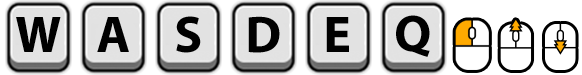
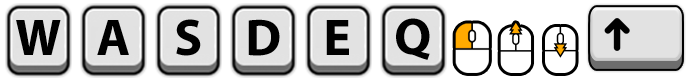
tutoriallar bitti

diff --git a/Assets/Scripts/UI/TutorialHintView.cs b/Assets/Scripts/UI/TutorialHintView.cs
@@ -22,7 +22,8 @@ public class TutorialHintView : MonoBehaviour
         Drop = 2,
         Scroll = 3,
         Arrange = 4,
-        Done = 5,
+        Crouch = 5,
+        Done = 6,
     }
 
     [SerializeField] GameObject root;
@@ -33,6 +34,7 @@ public class TutorialHintView : MonoBehaviour
     static Step _step;
     static bool _showThisSession;
     static bool _sessionDecided;
+    static bool _usedCrouchBeforeHint;
 
     TutorialHintFitter _fitter;
     LocalizedText _localized;
@@ -47,6 +49,7 @@ public class TutorialHintView : MonoBehaviour
         _step = Step.Move;
         _showThisSession = false;
         _sessionDecided = false;
+        _usedCrouchBeforeHint = false;
     }
 
     public static void ResetSession()
@@ -54,6 +57,7 @@ public class TutorialHintView : MonoBehaviour
         _step = Step.Move;
         _sessionDecided = true;
         _showThisSession = GameSceneLoader.PendingLoadMode == GameLoadMode.NewGame;
+        _usedCrouchBeforeHint = false;
         if (_gameplayInstance != null)
             _gameplayInstance.Hide();
     }
@@ -111,6 +115,9 @@ public class TutorialHintView : MonoBehaviour
     {
         if (!GameScenes.IsActiveGameScene() || _gameplayInstance != this)
             return;
+
+        if (_showThisSession && _step < Step.Crouch)
+            RememberCrouchKeyIfPressed();
 
         if (GameSceneLoader.IsLoading || !CardInstancedRenderManager.IsGameplayReady)
         {
@@ -170,6 +177,12 @@ public class TutorialHintView : MonoBehaviour
         }
 
         if (_step == Step.Arrange && HasArrangedMatchingRow())
+        {
+            AdvanceTo(_usedCrouchBeforeHint ? Step.Done : Step.Crouch);
+            return;
+        }
+
+        if (_step == Step.Crouch && HasCrouchInput())
             AdvanceTo(Step.Done);
     }
 
@@ -181,6 +194,7 @@ public class TutorialHintView : MonoBehaviour
         _sessionDecided = true;
         _step = Step.Move;
         _showThisSession = GameSceneLoader.PendingLoadMode == GameLoadMode.NewGame;
+        _usedCrouchBeforeHint = false;
     }
 
     void BindExisting()
@@ -335,6 +349,8 @@ public class TutorialHintView : MonoBehaviour
                 return LocalizationKeys.TutorialScroll;
             case Step.Arrange:
                 return LocalizationKeys.TutorialArrange;
+            case Step.Crouch:
+                return LocalizationKeys.TutorialCrouch;
             default:
                 return null;
         }
@@ -430,6 +446,22 @@ public class TutorialHintView : MonoBehaviour
         }
 
         return false;
+    }
+
+    static void RememberCrouchKeyIfPressed()
+    {
+        if (WasCrouchKeyPressedThisFrame())
+            _usedCrouchBeforeHint = true;
+    }
+
+    static bool HasCrouchInput()
+    {
+        return WasCrouchKeyPressedThisFrame();
+    }
+
+    static bool WasCrouchKeyPressedThisFrame()
+    {
+        return Input.GetKeyDown(KeyCode.LeftShift) || Input.GetKeyDown(KeyCode.RightShift);
     }
 
     static void DiscardCarried()

diff --git a/Assets/Scripts/Core/Localization/LocalizationKeys.cs b/Assets/Scripts/Core/Localization/LocalizationKeys.cs
@@ -96,4 +96,5 @@ public static class LocalizationKeys
     public const string TutorialDrop = "tutorial.drop";
     public const string TutorialScroll = "tutorial.scroll";
     public const string TutorialArrange = "tutorial.arrange";
+    public const string TutorialCrouch = "tutorial.crouch";
 }

diff --git a/Assets/Editor/TutorialHintUIBuilder.cs b/Assets/Editor/TutorialHintUIBuilder.cs
@@ -257,6 +257,7 @@ public static class TutorialHintUIBuilder
             "mouse_left_click_icon.png",
             "mouse_wheel_up.png",
             "mouse_wheel_down.png",
+            "shift_icon.png",
         };
         for (int i = 0; i < names.Length; i++)
         {
